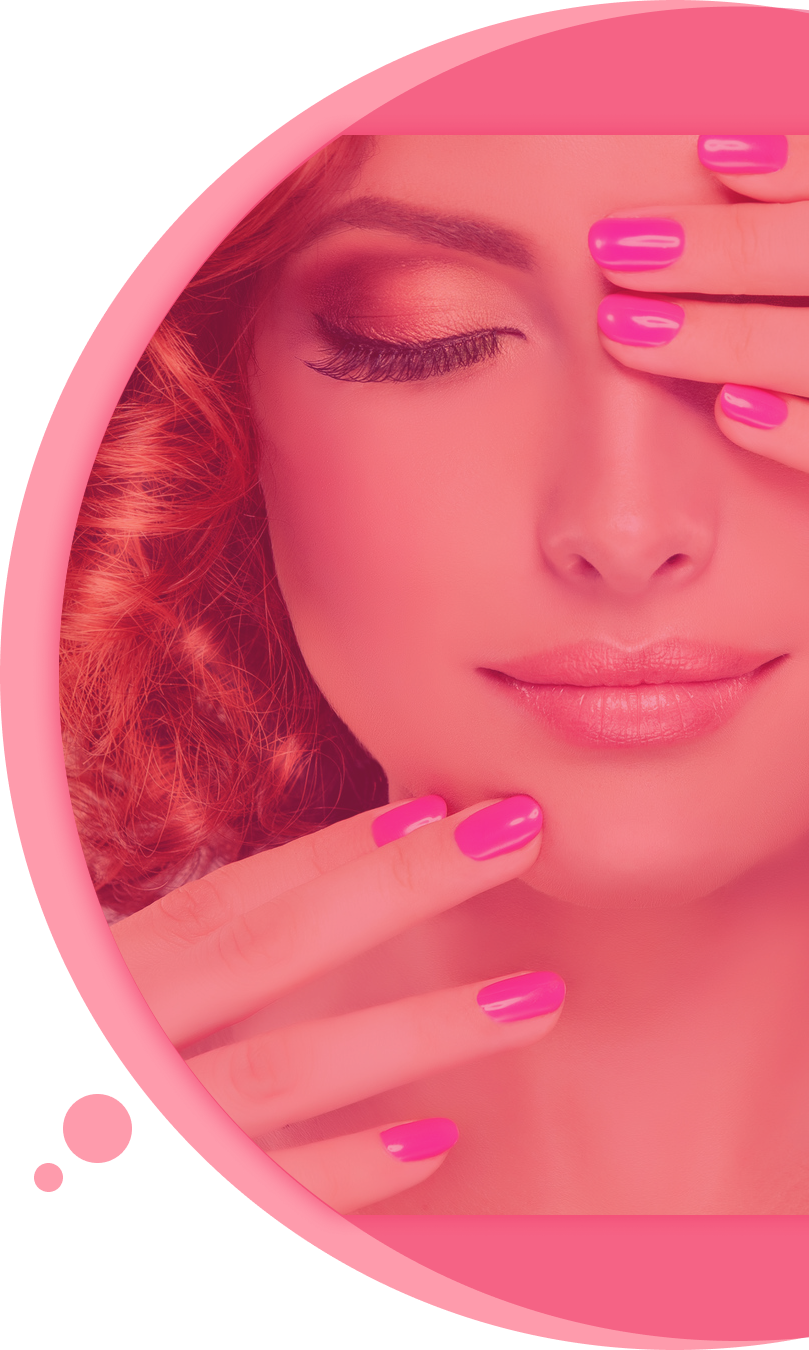
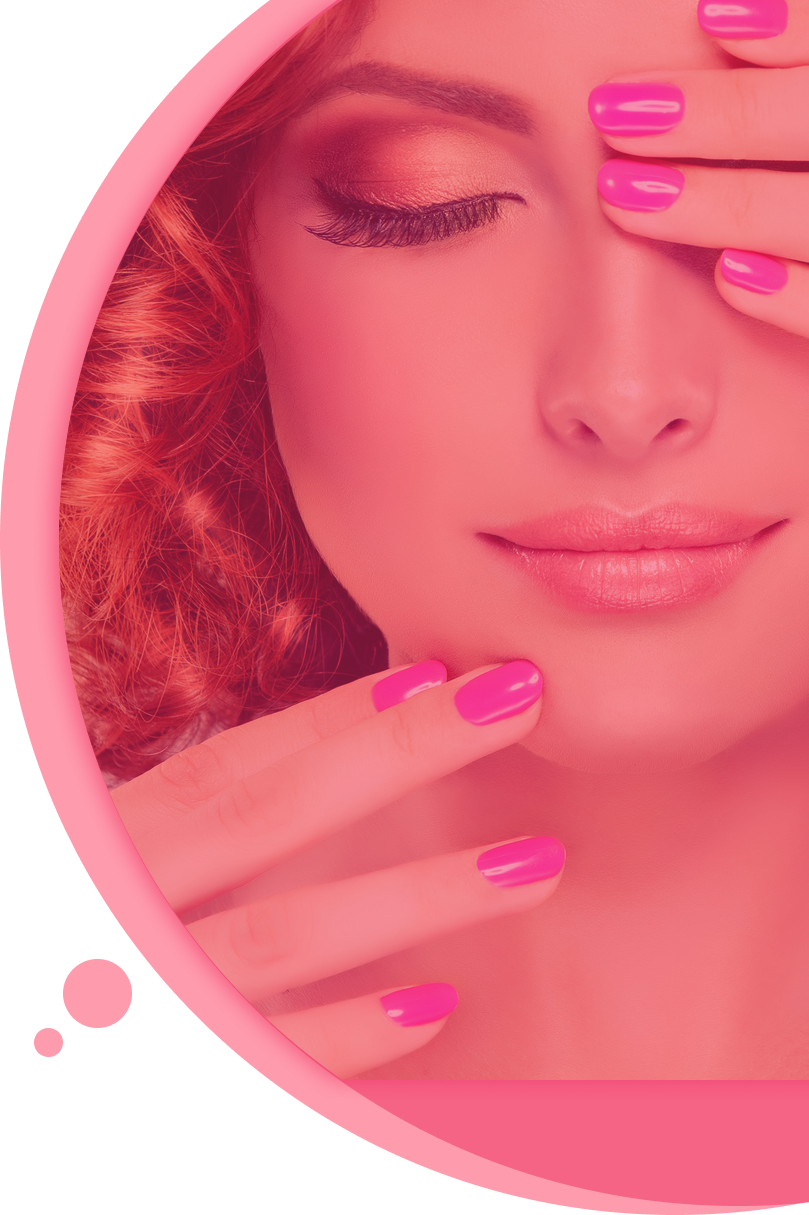
18
18

diff --git a/VicBuity/css/style.css b/VicBuity/css/style.css
@@ -1,5 +1,6 @@
 @import url('https://fonts.googleapis.com/css?family=Spectral+SC:400,700&display=swap&subset=cyrillic');
 @import url('https://fonts.googleapis.com/css?family=Spectral+SC:400,700|Tenor+Sans&display=swap&subset=cyrillic');
+@import url('https://fonts.googleapis.com/css?family=Spectral:400,700&display=swap');
 html{
   font-size: 10px;
 }
@@ -10,11 +11,66 @@ padding: 0;
 margin: 0;
 background-color: #F9F9F9 !important;
 }
+.timework{
+  width: 100%;
+  background-color: #FBDDE2;
+  position: sticky;
+  line-height: 100%;
+  padding-top: 2rem;
+}
+.timework img{
+   background-color: #FE9BAB;
+  padding: 0.6rem;
+  border-radius: 5rem;
+  margin-right: 1rem;
+}
+.closebtn{
+  left: 99%;
+  top: 5%;
+    color: black;
+    font-weight: bold;
+    float: right;
+    font-size: 26px;
+    cursor: pointer;
+    transition: 0.3s;
+}
+.text24w{
+  font-family: Spectral serif;
+font-style: normal;
+font-weight: 400;
+font-size: 2.4rem;
+line-height: 100%;
+}
+.text24{
+  font-family: Spectral serif;
+font-style: normal;
+font-weight: bold;
+font-size: 2.4rem;
+line-height: 100%;
+}
+.text24sc{
+  font-family: Spectral SC serif;
+font-style: normal;
+font-weight: bold;
+font-size: 2.4rem;
+line-height: 100%;
+}
+.text36{
+   font-family: Spectral serif;
+font-style: normal;
+font-weight: bold;
+font-size: 3.6rem;
+line-height: 100%;
+}
 .block1{
   width: 100%;
   background-image: url(../img/girl.png);
+  background-size: 35%;
   background-repeat: no-repeat;
   background-position: top right;
+}
+button.block1{
+  float: left;
 }
 nav{
   font-size: 1.4rem;
@@ -102,11 +158,11 @@ button.btn1{
   width: 100%;  
    font-family: 'Tenor Sans', sans-serif;
    text-align: center;
-   padding: 0rem 20rem;
+   padding: 0rem 0rem;
 }
 .design1{
   position: relative;
-  width: 43rem; 
+  width: 37rem; 
   height: 70rem;  
   display: inline-block;
   background-color:   #FFFFFF;
@@ -122,7 +178,7 @@ button.btn1{
 }
 button.btn2{
   position: absolute;
-  left: 12rem;
+  left: 9rem;
   top: 57rem;
   width: 18rem;
   height: 5rem;
@@ -284,11 +340,35 @@ button.btn3{
 
 
 
-@media screen and (max-device-width: 400px){
+@media screen and (max-device-width: 70rem){
   .block1{
   width: 100%;
 }
+  .form2{
+  position: relative;
+  width: 40rem;
+  height: 66rem;  
+  background: #FFFFFF;
+  box-shadow: 0px 7px 10px rgba(0, 0, 0, 0.25);
+  padding: 1.5rem;
+  font-family: Tenor Sans;
+font-style: normal;
+font-weight: normal;
+font-size: 2rem;
+line-height: 125%;
+}
+ 
 } 
+@media (min-device-width: 1000px){
+  .block3{
+  width: 100%;  
+   font-family: 'Tenor Sans', sans-serif;
+   text-align: center;
+   padding: 0rem 0rem;
+}
+}
+
+
 
 
 

diff --git a/VicBuity/index.html b/VicBuity/index.html
@@ -17,10 +17,26 @@
 			<link href="starter-template.css" rel="stylesheet">
 		<link rel="stylesheet" href="https://stackpath.bootstrapcdn.com/bootstrap/4.4.1/css/bootstrap.min.css">
 		<link rel="stylesheet" type="text/css" href="https://stackpath.bootstrapcdn.com/font-awesome/4.7.0/css/font-awesome.min.css">
-		<link rel="stylesheet" type="text/css" href="https://fonts.googleapis.com/css?family=Tangerine">">
+		<link rel="stylesheet" type="text/css" href="https://fonts.googleapis.com/css?family=Tangerine">
 	</head>
 
 	<body>
+		<div class="timework fixed-top sticky-top">
+			<span class="closebtn" onclick="this.parentElement.style.display='none';">&times;</span>
+			<div class="container">
+				<div class="row align-content-around">
+					<div class="col-xl-4">
+						<p class="text24sc">Время работы</p>
+						<p class="text24w">Пн-Вс: 08:00 - 00:00</p>
+					</div>
+					<div class="offset-xl-4 col-xl-4">
+
+						<p class="text36 "><img src="img/phone.png" alt="">+7 (937) 070-10-32</p>
+						<p class="text24w">Заказать звонок</p>
+					</div>
+				</div>
+			</div>
+		</div>
 		<div class="block1">
 			<div class="container">
 		<div class="row">
@@ -63,7 +79,7 @@
 			</div>
 		</div>
 		<div class="row justify-content-center">
-			<div class="col-xl-8"><div class="section1 justify-content-center">
+			<div class="col-xl-8"><div class="section1 text-center">
 				<img src="img/logo.png">
 				<p>НЕМНОГО О МАНИКЮРЕ</p>
 				<h1>Приходи и вдохновляйся!</h1>
@@ -73,6 +89,7 @@
 		</div>
 	</div>
 	</div>
+	<!--
 	<div class="block2">
 		
 		<div class="container-fluid">
@@ -88,15 +105,19 @@
 			</div>
 		</div>
 	</div>
-	<div class="block3">	
-		<div class="container-fluid">	
+	-->
+	<div class="block3 ">	
+		<div class="container">	
 		<div class="row">
 			<div class="offset-xl-2 col-xl-8">	
 				<h1>Популярный дизайн</h1>
 				<p class="text18">Руки – наша визитная карточка, девочки, а ногти требуют ежедневного ухода, ведь любая женщина должна быть на высоте всегда и во всем.</p>
 			</div>
 			<div class="row">
-				<div class=" col-xl-12">
+				<style >
+					display: none;
+				</style>
+				<div class="col-xl-12">
 				<div class="design1">
 <img src="img/design.png	" alt="">
 					<p class="text30">Популярный дизайн	</p>
